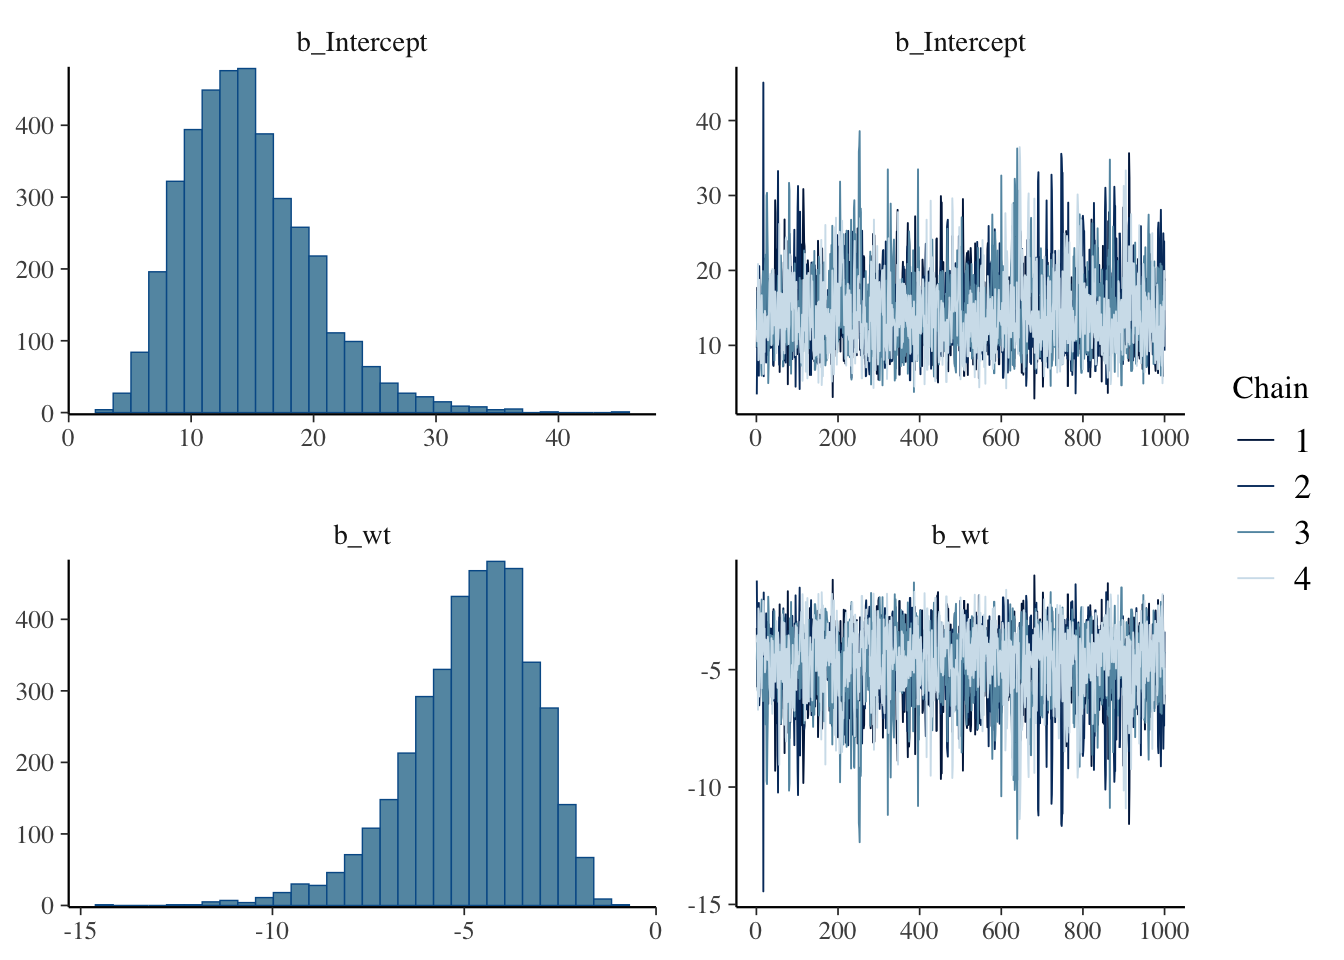
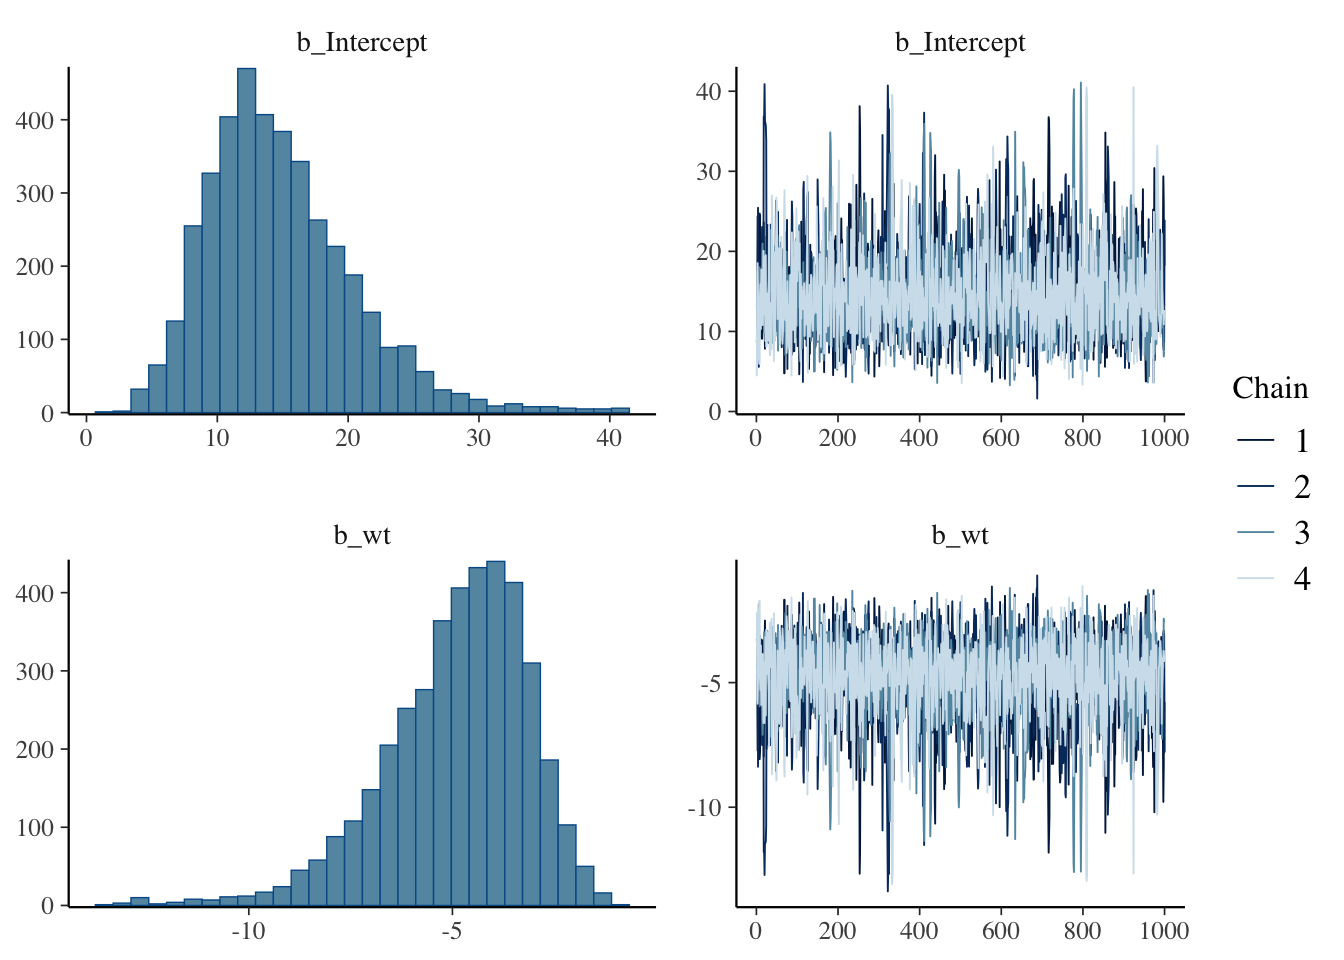
Added ANOVA analysis

diff --git a/Experimental Policies/bayesian-examples.html.md b/Experimental Policies/bayesian-examples.html.md
@@ -39,7 +39,8 @@ mtcars.data <-
   mutate(transmission = factor(case_when(am==0~"automatic",
                            am==1~"manual")),
          engine=factor(case_when(vs==0~"V-Shaped",
-                       vs==1~"Straight")))
+                       vs==1~"Straight")),
+         cylindars = factor(cyl))
   
 kable(mtcars.data,caption="The mtcars dataset")
 ```
@@ -49,40 +50,40 @@ kable(mtcars.data,caption="The mtcars dataset")
 
 Table: The mtcars dataset
 
-|                    |  mpg| cyl|  disp|  hp| drat|    wt|  qsec| vs| am| gear| carb|transmission |engine   |
-|:-------------------|----:|---:|-----:|---:|----:|-----:|-----:|--:|--:|----:|----:|:------------|:--------|
-|Mazda RX4           | 21.0|   6| 160.0| 110| 3.90| 2.620| 16.46|  0|  1|    4|    4|manual       |V-Shaped |
-|Mazda RX4 Wag       | 21.0|   6| 160.0| 110| 3.90| 2.875| 17.02|  0|  1|    4|    4|manual       |V-Shaped |
-|Datsun 710          | 22.8|   4| 108.0|  93| 3.85| 2.320| 18.61|  1|  1|    4|    1|manual       |Straight |
-|Hornet 4 Drive      | 21.4|   6| 258.0| 110| 3.08| 3.215| 19.44|  1|  0|    3|    1|automatic    |Straight |
-|Hornet Sportabout   | 18.7|   8| 360.0| 175| 3.15| 3.440| 17.02|  0|  0|    3|    2|automatic    |V-Shaped |
-|Valiant             | 18.1|   6| 225.0| 105| 2.76| 3.460| 20.22|  1|  0|    3|    1|automatic    |Straight |
-|Duster 360          | 14.3|   8| 360.0| 245| 3.21| 3.570| 15.84|  0|  0|    3|    4|automatic    |V-Shaped |
-|Merc 240D           | 24.4|   4| 146.7|  62| 3.69| 3.190| 20.00|  1|  0|    4|    2|automatic    |Straight |
-|Merc 230            | 22.8|   4| 140.8|  95| 3.92| 3.150| 22.90|  1|  0|    4|    2|automatic    |Straight |
-|Merc 280            | 19.2|   6| 167.6| 123| 3.92| 3.440| 18.30|  1|  0|    4|    4|automatic    |Straight |
-|Merc 280C           | 17.8|   6| 167.6| 123| 3.92| 3.440| 18.90|  1|  0|    4|    4|automatic    |Straight |
-|Merc 450SE          | 16.4|   8| 275.8| 180| 3.07| 4.070| 17.40|  0|  0|    3|    3|automatic    |V-Shaped |
-|Merc 450SL          | 17.3|   8| 275.8| 180| 3.07| 3.730| 17.60|  0|  0|    3|    3|automatic    |V-Shaped |
-|Merc 450SLC         | 15.2|   8| 275.8| 180| 3.07| 3.780| 18.00|  0|  0|    3|    3|automatic    |V-Shaped |
-|Cadillac Fleetwood  | 10.4|   8| 472.0| 205| 2.93| 5.250| 17.98|  0|  0|    3|    4|automatic    |V-Shaped |
-|Lincoln Continental | 10.4|   8| 460.0| 215| 3.00| 5.424| 17.82|  0|  0|    3|    4|automatic    |V-Shaped |
-|Chrysler Imperial   | 14.7|   8| 440.0| 230| 3.23| 5.345| 17.42|  0|  0|    3|    4|automatic    |V-Shaped |
-|Fiat 128            | 32.4|   4|  78.7|  66| 4.08| 2.200| 19.47|  1|  1|    4|    1|manual       |Straight |
-|Honda Civic         | 30.4|   4|  75.7|  52| 4.93| 1.615| 18.52|  1|  1|    4|    2|manual       |Straight |
-|Toyota Corolla      | 33.9|   4|  71.1|  65| 4.22| 1.835| 19.90|  1|  1|    4|    1|manual       |Straight |
-|Toyota Corona       | 21.5|   4| 120.1|  97| 3.70| 2.465| 20.01|  1|  0|    3|    1|automatic    |Straight |
-|Dodge Challenger    | 15.5|   8| 318.0| 150| 2.76| 3.520| 16.87|  0|  0|    3|    2|automatic    |V-Shaped |
-|AMC Javelin         | 15.2|   8| 304.0| 150| 3.15| 3.435| 17.30|  0|  0|    3|    2|automatic    |V-Shaped |
-|Camaro Z28          | 13.3|   8| 350.0| 245| 3.73| 3.840| 15.41|  0|  0|    3|    4|automatic    |V-Shaped |
-|Pontiac Firebird    | 19.2|   8| 400.0| 175| 3.08| 3.845| 17.05|  0|  0|    3|    2|automatic    |V-Shaped |
-|Fiat X1-9           | 27.3|   4|  79.0|  66| 4.08| 1.935| 18.90|  1|  1|    4|    1|manual       |Straight |
-|Porsche 914-2       | 26.0|   4| 120.3|  91| 4.43| 2.140| 16.70|  0|  1|    5|    2|manual       |V-Shaped |
-|Lotus Europa        | 30.4|   4|  95.1| 113| 3.77| 1.513| 16.90|  1|  1|    5|    2|manual       |Straight |
-|Ford Pantera L      | 15.8|   8| 351.0| 264| 4.22| 3.170| 14.50|  0|  1|    5|    4|manual       |V-Shaped |
-|Ferrari Dino        | 19.7|   6| 145.0| 175| 3.62| 2.770| 15.50|  0|  1|    5|    6|manual       |V-Shaped |
-|Maserati Bora       | 15.0|   8| 301.0| 335| 3.54| 3.570| 14.60|  0|  1|    5|    8|manual       |V-Shaped |
-|Volvo 142E          | 21.4|   4| 121.0| 109| 4.11| 2.780| 18.60|  1|  1|    4|    2|manual       |Straight |
+|                    |  mpg| cyl|  disp|  hp| drat|    wt|  qsec| vs| am| gear| carb|transmission |engine   |cylindars |
+|:-------------------|----:|---:|-----:|---:|----:|-----:|-----:|--:|--:|----:|----:|:------------|:--------|:---------|
+|Mazda RX4           | 21.0|   6| 160.0| 110| 3.90| 2.620| 16.46|  0|  1|    4|    4|manual       |V-Shaped |6         |
+|Mazda RX4 Wag       | 21.0|   6| 160.0| 110| 3.90| 2.875| 17.02|  0|  1|    4|    4|manual       |V-Shaped |6         |
+|Datsun 710          | 22.8|   4| 108.0|  93| 3.85| 2.320| 18.61|  1|  1|    4|    1|manual       |Straight |4         |
+|Hornet 4 Drive      | 21.4|   6| 258.0| 110| 3.08| 3.215| 19.44|  1|  0|    3|    1|automatic    |Straight |6         |
+|Hornet Sportabout   | 18.7|   8| 360.0| 175| 3.15| 3.440| 17.02|  0|  0|    3|    2|automatic    |V-Shaped |8         |
+|Valiant             | 18.1|   6| 225.0| 105| 2.76| 3.460| 20.22|  1|  0|    3|    1|automatic    |Straight |6         |
+|Duster 360          | 14.3|   8| 360.0| 245| 3.21| 3.570| 15.84|  0|  0|    3|    4|automatic    |V-Shaped |8         |
+|Merc 240D           | 24.4|   4| 146.7|  62| 3.69| 3.190| 20.00|  1|  0|    4|    2|automatic    |Straight |4         |
+|Merc 230            | 22.8|   4| 140.8|  95| 3.92| 3.150| 22.90|  1|  0|    4|    2|automatic    |Straight |4         |
+|Merc 280            | 19.2|   6| 167.6| 123| 3.92| 3.440| 18.30|  1|  0|    4|    4|automatic    |Straight |6         |
+|Merc 280C           | 17.8|   6| 167.6| 123| 3.92| 3.440| 18.90|  1|  0|    4|    4|automatic    |Straight |6         |
+|Merc 450SE          | 16.4|   8| 275.8| 180| 3.07| 4.070| 17.40|  0|  0|    3|    3|automatic    |V-Shaped |8         |
+|Merc 450SL          | 17.3|   8| 275.8| 180| 3.07| 3.730| 17.60|  0|  0|    3|    3|automatic    |V-Shaped |8         |
+|Merc 450SLC         | 15.2|   8| 275.8| 180| 3.07| 3.780| 18.00|  0|  0|    3|    3|automatic    |V-Shaped |8         |
+|Cadillac Fleetwood  | 10.4|   8| 472.0| 205| 2.93| 5.250| 17.98|  0|  0|    3|    4|automatic    |V-Shaped |8         |
+|Lincoln Continental | 10.4|   8| 460.0| 215| 3.00| 5.424| 17.82|  0|  0|    3|    4|automatic    |V-Shaped |8         |
+|Chrysler Imperial   | 14.7|   8| 440.0| 230| 3.23| 5.345| 17.42|  0|  0|    3|    4|automatic    |V-Shaped |8         |
+|Fiat 128            | 32.4|   4|  78.7|  66| 4.08| 2.200| 19.47|  1|  1|    4|    1|manual       |Straight |4         |
+|Honda Civic         | 30.4|   4|  75.7|  52| 4.93| 1.615| 18.52|  1|  1|    4|    2|manual       |Straight |4         |
+|Toyota Corolla      | 33.9|   4|  71.1|  65| 4.22| 1.835| 19.90|  1|  1|    4|    1|manual       |Straight |4         |
+|Toyota Corona       | 21.5|   4| 120.1|  97| 3.70| 2.465| 20.01|  1|  0|    3|    1|automatic    |Straight |4         |
+|Dodge Challenger    | 15.5|   8| 318.0| 150| 2.76| 3.520| 16.87|  0|  0|    3|    2|automatic    |V-Shaped |8         |
+|AMC Javelin         | 15.2|   8| 304.0| 150| 3.15| 3.435| 17.30|  0|  0|    3|    2|automatic    |V-Shaped |8         |
+|Camaro Z28          | 13.3|   8| 350.0| 245| 3.73| 3.840| 15.41|  0|  0|    3|    4|automatic    |V-Shaped |8         |
+|Pontiac Firebird    | 19.2|   8| 400.0| 175| 3.08| 3.845| 17.05|  0|  0|    3|    2|automatic    |V-Shaped |8         |
+|Fiat X1-9           | 27.3|   4|  79.0|  66| 4.08| 1.935| 18.90|  1|  1|    4|    1|manual       |Straight |4         |
+|Porsche 914-2       | 26.0|   4| 120.3|  91| 4.43| 2.140| 16.70|  0|  1|    5|    2|manual       |V-Shaped |4         |
+|Lotus Europa        | 30.4|   4|  95.1| 113| 3.77| 1.513| 16.90|  1|  1|    5|    2|manual       |Straight |4         |
+|Ford Pantera L      | 15.8|   8| 351.0| 264| 4.22| 3.170| 14.50|  0|  1|    5|    4|manual       |V-Shaped |8         |
+|Ferrari Dino        | 19.7|   6| 145.0| 175| 3.62| 2.770| 15.50|  0|  1|    5|    6|manual       |V-Shaped |6         |
+|Maserati Bora       | 15.0|   8| 301.0| 335| 3.54| 3.570| 14.60|  0|  1|    5|    8|manual       |V-Shaped |8         |
+|Volvo 142E          | 21.4|   4| 121.0| 109| 4.11| 2.780| 18.60|  1|  1|    4|    2|manual       |Straight |4         |
 
 
 :::
@@ -117,10 +118,10 @@ Table: Summary of model fit for mpg versus transmission
 
 |effect   |component |group    |term                           |  estimate| std.error|   conf.low| conf.high|
 |:--------|:---------|:--------|:------------------------------|---------:|---------:|----------:|---------:|
-|fixed    |cond      |NA       |(Intercept)                    | 17.135479| 1.1354727| 14.9453879| 19.480708|
-|fixed    |cond      |NA       |transmissionmanual             |  7.183110| 1.8597032|  3.4236252| 10.849792|
-|ran_pars |cond      |Residual |sd__Observation                |  5.023279| 0.6491693|  3.9185180|  6.428996|
-|ran_pars |cond      |Residual |prior_sigma__NA.NA.prior_sigma |  5.857017| 6.1967046|  0.2162123| 21.879798|
+|fixed    |cond      |NA       |(Intercept)                    | 17.097677| 1.1364917| 14.9012782| 19.316796|
+|fixed    |cond      |NA       |transmissionmanual             |  7.264199| 1.8109926|  3.6689723| 10.864794|
+|ran_pars |cond      |Residual |sd__Observation                |  5.028371| 0.6561548|  3.9331937|  6.495243|
+|ran_pars |cond      |Residual |prior_sigma__NA.NA.prior_sigma |  5.913367| 6.6387586|  0.1846534| 22.336345|
 
 
 :::
@@ -142,7 +143,7 @@ hypothesis(pairwise.fit, "transmissionmanual>0") # testing for whether manual tr
 ```
 Hypothesis Tests for class b:
                 Hypothesis Estimate Est.Error CI.Lower CI.Upper Evid.Ratio
-1 (transmissionmanual) > 0     7.18      1.86     4.12    10.23        Inf
+1 (transmissionmanual) > 0     7.26      1.81     4.35     10.2        Inf
   Post.Prob Star
 1         1    *
 ---
@@ -157,7 +158,7 @@ Posterior probabilities of point hypotheses assume equal prior probabilities.
 :::
 
 
-As you can see, this analysis estimates that the manual transmission has a 7.1831104 higher mpg ($\pm$ 1.8597032) with a very high Bayes Factor (\infty{}) and posterior probability (1).
+As you can see, this analysis estimates that the manual transmission has a 7.2641994 higher mpg ($\pm$ 1.8109926) with a very high Bayes Factor (\infty{}) and posterior probability (1).
 
 The posterior distribution for the effect of a manual transmission is here:
 
@@ -210,6 +211,135 @@ Table: Default priors for a pairwise analysis of mpg vs transmission in the mtca
 
 This includes flat priors for the beta coefficients, student's *t* distributions for intercept (centered around the mean mpg) and residual error (centered around zero).
 
+### How about an ANOVA
+
+Lets say we want to test across groups (rather than testing effects between groups)
+.  For that we can use the number of cylindars as a factor
+
+
+
+::: {.cell}
+
+```{.r .cell-code}
+anova.fit <- brm(mpg~0+cylindars,data=mtcars.data, #zero makes sure each cylindar gets its own intercept
+                    sample_prior = TRUE)
+anova.fit.null <- brm(mpg~0,data=mtcars.data, #null model not including cylindars
+                    sample_prior = TRUE)
+```
+:::
+
+
+The analysis here is a little bit different than before.  We can still plot the posterior distributions for each model but the relevant test is now to compare the model with the cylindars to a null model, without that term.
+
+
+::: {.cell}
+
+```{.r .cell-code}
+tidy(anova.fit) %>% kable(caption="Summary of model fit for mpg versus cylindars")
+```
+
+::: {.cell-output-display}
+
+
+Table: Summary of model fit for mpg versus cylindars
+
+|effect   |component |group    |term                           |  estimate| std.error|   conf.low| conf.high|
+|:--------|:---------|:--------|:------------------------------|---------:|---------:|----------:|---------:|
+|fixed    |cond      |NA       |cylindars4                     | 26.671540|  1.009890| 24.6931994| 28.684420|
+|fixed    |cond      |NA       |cylindars6                     | 19.710334|  1.292718| 17.1888040| 22.281530|
+|fixed    |cond      |NA       |cylindars8                     | 15.107150|  0.902260| 13.3049123| 16.826756|
+|ran_pars |cond      |Residual |sd__Observation                |  3.338449|  0.454706|  2.5896345|  4.374084|
+|ran_pars |cond      |Residual |prior_sigma__NA.NA.prior_sigma |  6.021950|  7.654006|  0.1700044| 23.006449|
+
+
+:::
+
+```{.r .cell-code}
+plot(anova.fit)
+```
+
+::: {.cell-output-display}
+![](bayesian-examples_files/figure-html/brms-anova-analysis-1.png){width=672}
+:::
+
+```{.r .cell-code}
+# extracts the bayes factor comparing the models
+bayes_factor(anova.fit,anova.fit.null) -> anova.bf 
+```
+
+::: {.cell-output .cell-output-stdout}
+
+```
+Iteration: 1
+Iteration: 2
+Iteration: 3
+Iteration: 4
+Iteration: 5
+Iteration: 1
+Iteration: 2
+Iteration: 3
+Iteration: 4
+Iteration: 5
+```
+
+
+:::
+
+```{.r .cell-code}
+library(tidyr)
+as_draws_df(anova.fit) %>%
+  select(starts_with('b')) %>%
+  pivot_longer(cols=everything(),
+               names_to = "term",
+               values_to="mpg") %>%
+  ggplot(aes(x=mpg,fill=term)) +
+  geom_density() +
+  geom_vline(xintercept=0,color="red",lty=2) +
+  labs(y="",
+       x="Miles Per Gallon",
+       title="Posterior probabilities") +
+  scale_fill_discrete(name="") +
+  theme_classic(base_size=16) +
+  theme(legend.position="top")
+```
+
+::: {.cell-output-display}
+![](bayesian-examples_files/figure-html/brms-anova-analysis-2.png){width=672}
+:::
+:::
+
+
+In this case the Bayes Factor for the hypothesis that this term is relevant is 3.4878578\times 10^{28}.
+
+We can still do post-hoc tests using the hypothesis command:
+
+
+::: {.cell}
+
+```{.r .cell-code}
+rbind(hypothesis(anova.fit, "cylindars4>cylindars6")$hypothesis,
+      hypothesis(anova.fit, "cylindars4>cylindars8")$hypothesis,
+      hypothesis(anova.fit, "cylindars6>cylindars8")$hypothesis) %>%
+  kable(caption="Pairwise hypothesis tests for cylindars on mpg")
+```
+
+::: {.cell-output-display}
+
+
+Table: Pairwise hypothesis tests for cylindars on mpg
+
+|Hypothesis                    |  Estimate| Est.Error| CI.Lower|  CI.Upper| Evid.Ratio| Post.Prob|Star |
+|:-----------------------------|---------:|---------:|--------:|---------:|----------:|---------:|:----|
+|(cylindars4)-(cylindars6) > 0 |  6.961206|  1.613525| 4.318895|  9.640136|        Inf|   1.00000|*    |
+|(cylindars4)-(cylindars8) > 0 | 11.564389|  1.358335| 9.344448| 13.776835|        Inf|   1.00000|*    |
+|(cylindars6)-(cylindars8) > 0 |  4.603184|  1.565119| 2.070603|  7.158059|   265.6667|   0.99625|*    |
+
+
+:::
+:::
+
+
+
 ## What is a Linear Regression Equivalent?
 
 Lets start by testing if there is a relationship between two quantitative variables, the mpg (miles per gallon) and the weight (wt) using the default priors
@@ -259,10 +389,10 @@ Table: Summary of model fit for mpg versus weight
 
 |effect   |component |group    |term                           |  estimate| std.error|   conf.low| conf.high|
 |:--------|:---------|:--------|:------------------------------|---------:|---------:|----------:|---------:|
-|fixed    |cond      |NA       |(Intercept)                    | 37.236331| 1.9229581| 33.3493068| 40.984929|
-|fixed    |cond      |NA       |wt                             | -5.328484| 0.5731467| -6.4334073| -4.201899|
-|ran_pars |cond      |Residual |sd__Observation                |  3.151893| 0.4170208|  2.4545740|  4.095542|
-|ran_pars |cond      |Residual |prior_sigma__NA.NA.prior_sigma |  5.877886| 6.9135260|  0.1698878| 21.385994|
+|fixed    |cond      |NA       |(Intercept)                    | 37.257714| 1.9360071| 33.4151941| 40.982049|
+|fixed    |cond      |NA       |wt                             | -5.341900| 0.5792852| -6.4596890| -4.176700|
+|ran_pars |cond      |Residual |sd__Observation                |  3.160016| 0.4253177|  2.4736451|  4.126301|
+|ran_pars |cond      |Residual |prior_sigma__NA.NA.prior_sigma |  5.960987| 6.6349369|  0.1906678| 22.410161|
 
 
 :::
@@ -284,7 +414,7 @@ hypothesis(linear.fit, "wt<0") # testing for whether weight has a negative effec
 ```
 Hypothesis Tests for class b:
   Hypothesis Estimate Est.Error CI.Lower CI.Upper Evid.Ratio Post.Prob Star
-1   (wt) < 0    -5.33      0.57    -6.28    -4.38        Inf         1    *
+1   (wt) < 0    -5.34      0.58     -6.3    -4.41        Inf         1    *
 ---
 'CI': 90%-CI for one-sided and 95%-CI for two-sided hypotheses.
 '*': For one-sided hypotheses, the posterior probability exceeds 95%;
@@ -330,9 +460,9 @@ kable(bayes_R2(linear.fit),caption="Estimates for R2 between weight and mpg")
 
 Table: Estimates for R2 between weight and mpg
 
-|   |  Estimate| Est.Error|      Q2.5|     Q97.5|
-|:--|---------:|---------:|---------:|---------:|
-|R2 | 0.7408837|  0.046396| 0.6230213| 0.7966674|
+|   |  Estimate| Est.Error|      Q2.5|    Q97.5|
+|:--|---------:|---------:|---------:|--------:|
+|R2 | 0.7417077| 0.0472553| 0.6189107| 0.797102|
 
 
 :::
@@ -453,8 +583,8 @@ Table: Summary of model fit for transmission versus engine type
 
 |effect |component |group |term               |   estimate| std.error|   conf.low| conf.high|
 |:------|:---------|:-----|:------------------|----------:|---------:|----------:|---------:|
-|fixed  |cond      |NA    |(Intercept)        |  0.5565302| 0.4734377| -0.3407164| 1.4931053|
-|fixed  |cond      |NA    |transmissionmanual | -0.7307908| 0.7315481| -2.1772932| 0.7098092|
+|fixed  |cond      |NA    |(Intercept)        |  0.5564512| 0.4845538| -0.3728695| 1.5250906|
+|fixed  |cond      |NA    |transmissionmanual | -0.7365043| 0.7455498| -2.2076540| 0.7021128|
 
 
 :::
@@ -476,9 +606,9 @@ hypothesis(counts.model, "transmissionmanual<0") # testing for whether weight ha
 ```
 Hypothesis Tests for class b:
                 Hypothesis Estimate Est.Error CI.Lower CI.Upper Evid.Ratio
-1 (transmissionmanual) < 0    -0.73      0.73     -1.9     0.48       5.48
+1 (transmissionmanual) < 0    -0.74      0.75    -1.99     0.45       5.05
   Post.Prob Star
-1      0.85     
+1      0.83     
 ---
 'CI': 90%-CI for one-sided and 95%-CI for two-sided hypotheses.
 '*': For one-sided hypotheses, the posterior probability exceeds 95%;
@@ -506,7 +636,7 @@ as_draws_df(counts.model) %>%
 :::
 
 
-Now in this case there is moderate evidence for a negative relationship between transmnission and engine type ($\beta$=-0.7307908 $\pm$ 0.7315481) with a Bayes Factor of 5.4829822 and a Posterior Probability of 0.84575.
+Now in this case there is moderate evidence for a negative relationship between transmnission and engine type ($\beta$=-0.7365043 $\pm$ 0.7455498) with a Bayes Factor of 5.0514372 and a Posterior Probability of 0.83475.
 
 ## What is a Binomial Regression Equivalent?
 
@@ -554,8 +684,8 @@ Table: Summary of model fit for transmission versus engine type
 
 |effect |component |group |term        |  estimate| std.error|  conf.low| conf.high|
 |:------|:---------|:-----|:-----------|---------:|---------:|---------:|---------:|
-|fixed  |cond      |NA    |(Intercept) | 14.540785|  5.185975|  6.338352|  26.62549|
-|fixed  |cond      |NA    |wt          | -4.815482|  1.642509| -8.643923|  -2.21153|
+|fixed  |cond      |NA    |(Intercept) | 14.822531|  5.646451|  6.143241| 27.985245|
+|fixed  |cond      |NA    |wt          | -4.899447|  1.776671| -8.932556| -2.160662|
 
 
 :::
@@ -577,7 +707,7 @@ hypothesis(binomial.fit, "wt<0") # testing for whether weight has a negative eff
 ```
 Hypothesis Tests for class b:
   Hypothesis Estimate Est.Error CI.Lower CI.Upper Evid.Ratio Post.Prob Star
-1   (wt) < 0    -4.82      1.64    -7.82    -2.51        Inf         1    *
+1   (wt) < 0     -4.9      1.78     -8.1    -2.51        Inf         1    *
 ---
 'CI': 90%-CI for one-sided and 95%-CI for two-sided hypotheses.
 '*': For one-sided hypotheses, the posterior probability exceeds 95%;
